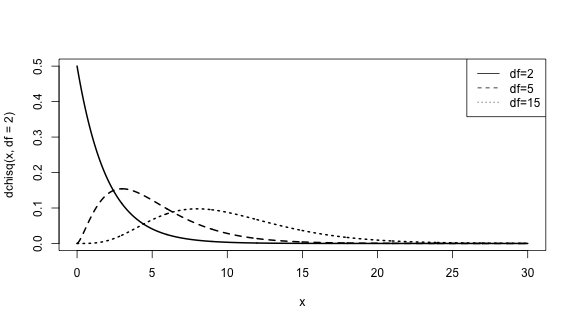
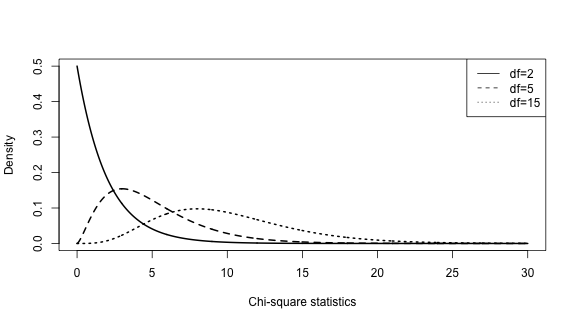
publishing deck

Changed region(s): [[0.0, 0.3395, 0.0312, 0.6173], [0.4375, 0.8951, 0.625, 0.9568]]

diff --git a/index.html b/index.html
@@ -251,7 +251,7 @@
   <article data-timings="">
     <p>Characterize data sets and statistics that are always positive and typically right skewed</p>
 
-<pre><code class="r">curve(dchisq(x, df=2), 0, 30, n = 1000, lwd=2)
+<pre><code class="r">curve(dchisq(x, df=2), 0, 30, n = 1000, lwd=2, ylab = &quot;Density&quot;, xlab=&quot;Chi-square statistics&quot;)
 curve(dchisq(x, df=5), 0, 30, n = 1000, add=T, lty=2, lwd=2)
 curve(dchisq(x, df=10), 0, 30, n = 1000, add=T, lty=3, lwd=2)
 legend(&quot;topright&quot;, c(&quot;df=2&quot;, &quot;df=5&quot;, &quot;df=15&quot;), lty=c(1,2,3))

diff --git a/index.md b/index.md
@@ -143,7 +143,7 @@ Characterize data sets and statistics that are always positive and typically rig
 
 
 ```r
-curve(dchisq(x, df=2), 0, 30, n = 1000, lwd=2)
+curve(dchisq(x, df=2), 0, 30, n = 1000, lwd=2, ylab = "Density", xlab="Chi-square statistics")
 curve(dchisq(x, df=5), 0, 30, n = 1000, add=T, lty=2, lwd=2)
 curve(dchisq(x, df=10), 0, 30, n = 1000, add=T, lty=3, lwd=2)
 legend("topright", c("df=2", "df=5", "df=15"), lty=c(1,2,3))
